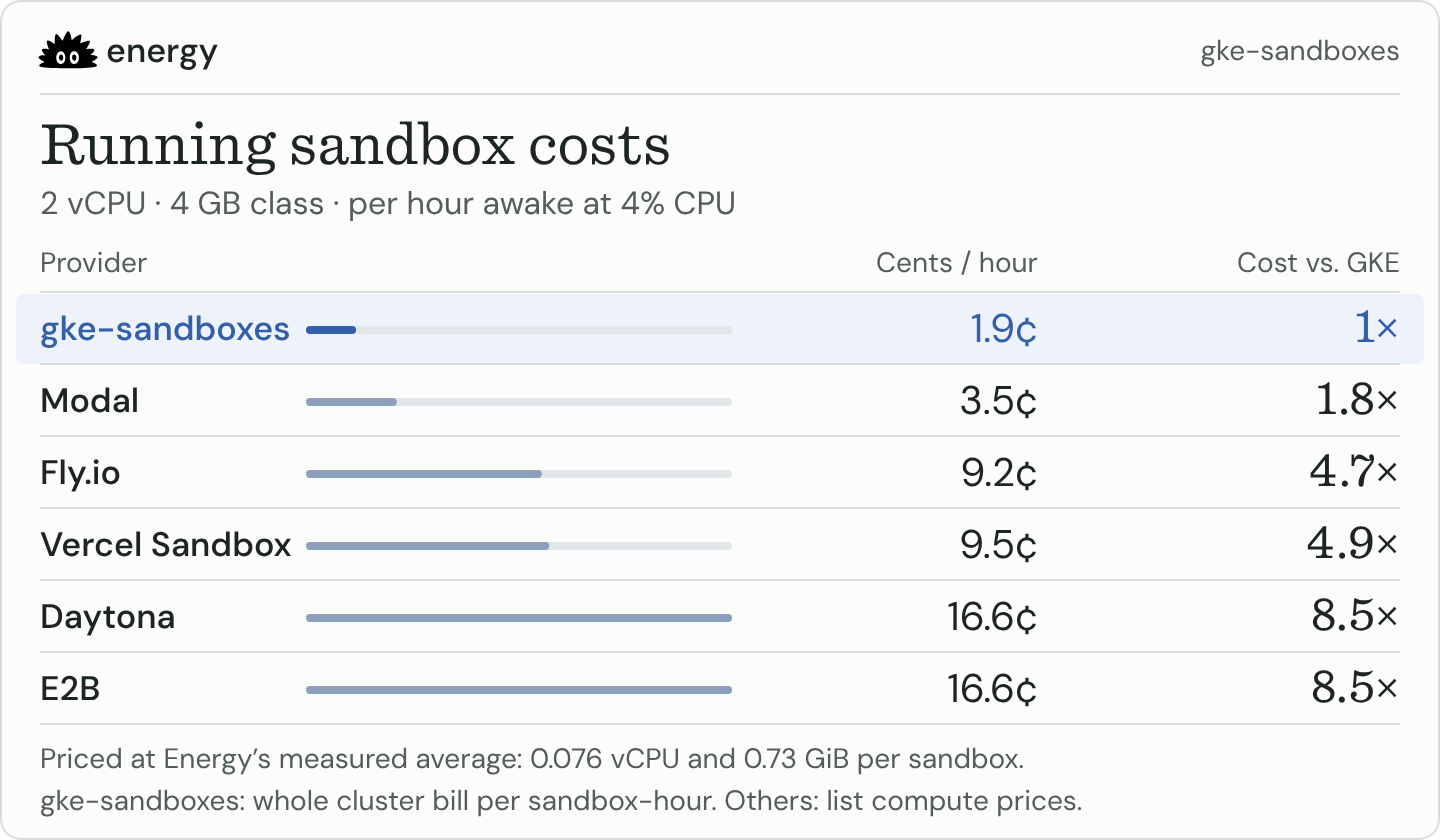
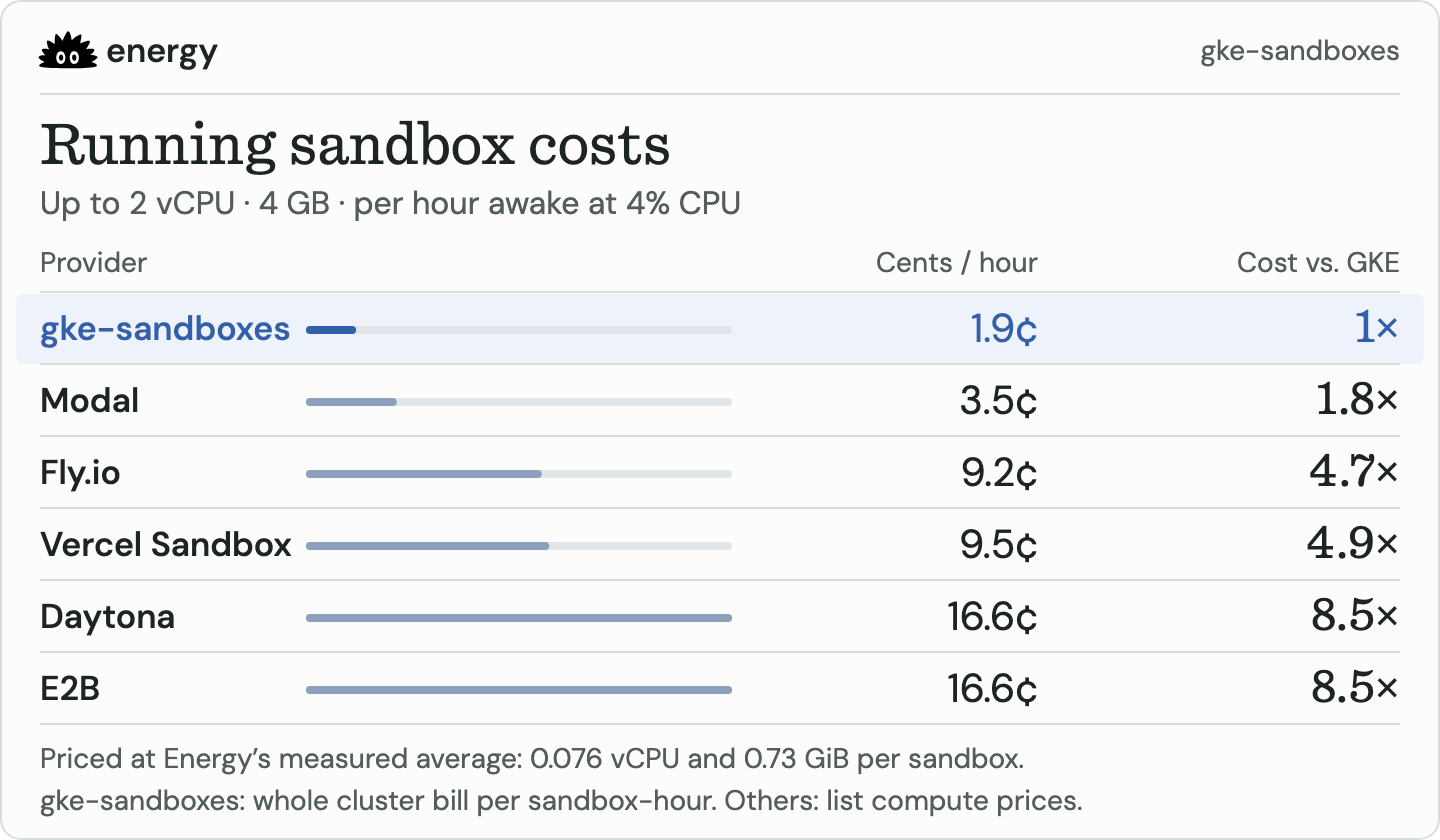
Say the running-cost chart prices sandboxes of up to 2 vCPU and 4 GB (#12)
The subtitle read "2 vCPU · 4 GB class", which a reader can take as the
size every row reserves. Modal and gke-sandboxes reserve less and treat
that size as a ceiling. The subtitle now reads "Up to 2 vCPU · 4 GB",
which holds for every row.

Both PNGs are re-rendered from their SVGs at the same dimensions. The
SVG descriptions and the README alt text say the same thing.

diff --git a/README.md b/README.md
@@ -6,7 +6,7 @@ A 2 vCPU / 4 GB sandbox costs about **1.9¢ for each hour it is awake**, cluster
 
 <picture>
   <source media="(max-width: 600px)" srcset="docs/assets/running-sandbox.png">
-  <img src="docs/assets/running-sandbox-wide.png" width="100%" alt="Cost in US cents for each hour a 2 vCPU and 4 GB sandbox is awake, at about 4% CPU. gke-sandboxes costs an estimated 1.9¢, the whole cluster bill divided by the hours its sandboxes are awake (1×). At list price for compute, Modal 3.5¢ (1.8×), Fly.io 9.2¢ (4.7×), Vercel Sandbox 9.5¢ (4.9×), Daytona 16.6¢ (8.5×), and E2B 16.6¢ (8.5×). Managed disk and plan fees are extra.">
+  <img src="docs/assets/running-sandbox-wide.png" width="100%" alt="Cost in US cents for each hour a sandbox that may use up to 2 vCPU and 4 GB is awake, at about 4% CPU. gke-sandboxes costs an estimated 1.9¢, the whole cluster bill divided by the hours its sandboxes are awake (1×). At list price for compute, Modal 3.5¢ (1.8×), Fly.io 9.2¢ (4.7×), Vercel Sandbox 9.5¢ (4.9×), Daytona 16.6¢ (8.5×), and E2B 16.6¢ (8.5×). Managed disk and plan fees are extra.">
 </picture>
 
 ## Set it up
